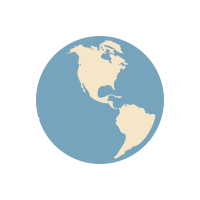
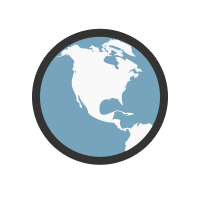
modification d'icone, couleurs, ajout partie déforestation et optimisation du css

Changed region(s): [[0.15, 0.12, 0.84, 0.84]]

diff --git a/index.html b/index.html
@@ -21,7 +21,7 @@
     <!-- Barre de navigation -->
     <nav class="container navbar navbar-expand-lg navbar-light mb-0" id="navigation">
         <div class="container-fluid">
-            <a class="navbar-brand" href="accueil.html">
+            <a class="navbar-brand" href="index.html">
                 <img src="images/forestver.png" alt=""">
             </a>
             <button class=" navbar-toggler" type="button" data-bs-toggle="collapse"
@@ -51,7 +51,7 @@
             <p class="h2 text-center p-4">Rejoignez-nous !<br>
                 Participez à la reconstruction de nos forêts
             </p>
-            <div class="presentation mb-4 rounded row align-items-center p-3">
+            <div class="presentation mb-4 rounded row align-items-center p-4">
                 <div class="col-md-6" id="container-txt-asso">
                     <p class="txt-asso">Forestver lutte depuis de nombreuses années contre la déforestation de
                         notre
@@ -65,7 +65,7 @@
             </div>
         </section>
         <!-- Chiffres clés -->
-        <section class="container px-0">
+        <section class="container border-bottom border-3 px-0 py-4">
             <div class="row gy-4 d-flex">
                 <div class="col-12 col-md-6 col-lg-4">
                     <div class="box d-flex flex-column justify-content-center align-items-center">
@@ -84,10 +84,53 @@
                 <div class="col-12 col-md-6 col-lg-4 mx-auto">
                     <div class="box d-flex flex-column justify-content-center align-items-center">
                         <img class="card_img" src="images/man.png" alt="">
-                        <p class="text-center">3000 personnes actives dans la protection et la reconstruction des forêts
+                        <p class="text-center">3000 personnes actives
                         </p>
                     </div>
                 </div>
+            </div>
+        </section>
+
+        <!-- Partie déforestation -->
+        <section class="container py-4">
+            <p class="h2 text-center py-4">Le triple impact négatif de la destruction des forêts</p>
+            <div class="row d-flex justify-content-center justify-content-lg-start py-4 gy-4">
+                <div class="col-12 col-lg-8 d-flex justify-content-center justify-content-lg-start ">
+                    <p class="txt-deforestation">
+                        <strong>La déforestation</strong> a un impact terrible sur le climat.
+                        Les écosystèmes
+                        forestiers
+                        sont aujourd'hui
+                        les écosystèmes qui ont
+                        capté le plus de carbone derrière les océans. Les détruire accélère le réchauffement climatique
+                        car cela libère les gaz
+                        captés dans leur biomasse et les sols forestiers tout en amenuisant nos capacités de
+                        séquestration de carbone. <br> Ainsi, la
+                        déforestation des forêts tropicales génère chaque année des milliards de tonnes de CO2, à
+                        hauteur d’environ 12% des
+                        émissions mondiales anthropiques annuelles de gaz à effet de serre.
+                    </p>
+                </div>
+                <div class="col-12 col-lg-4 px-0 d-flex justify-content-center">
+                    <div class="nbr-hectares w-75 d-flex flex-column justify-content-evenly">
+                        <p class="chiffre mt-0 mb-4">43M</p>
+                        <p class="txt-chiffre mt-4 mb-0">43 millions d’hectares de forêts ont disparu entre 2004 et
+                            2017 dans les 24
+                            fronts de déforestation identifiés par le
+                            WWF.
+                        </p>
+                    </div>
+                </div>
+            </div>
+            <div class="justify-content-center justify-content-lg-start row d-flex pt-4">
+                <p class="txt-deforestation">
+                    Détruire les forêts détruit la biodiversité précieuse et unique qu'elles contiennent. Les forêts
+                    sont en effet de
+                    véritables réservoirs de biodiversité. Elles sont présentes sur environ 31% des terres émergées
+                    mais abrite <strong>80% de la biodiversité</strong> terrestre et les deux tiers des espèces
+                    animales et végétales terrestres, hors
+                    océan
+                </p>
             </div>
         </section>
     </main>

diff --git a/style.css b/style.css
@@ -20,15 +20,24 @@ body {
 }
 
 .presentation {
-    background-color: #157575;
+    background-color: #0a775f;
     color: #ffffff;
 }
 
 .txt-asso {
-    padding: 1em;
     line-height: 1.8;
     width: 80%;
     font-size: 20px;
+}
+
+.txt-deforestation {
+    line-height: 2;
+    font-size: 1.1em;
+    width: 90%;
+}
+
+.txt-chiffre {
+    font-size: 0.8em;
 }
 
 .rounded-img {
@@ -42,19 +51,28 @@ body {
 
 .box {
     height: 100%;
-    background-color: #ead7c7;
+    background-color: #0a775f;
+    color: #ffffff;
     font-size: 1em;
-    font-weight: 900;
+    font-weight: 600;
     border-radius: 5px;
-    box-shadow: 3px 3px 18px -3px rgba(0, 0, 0, 0.6);
-    -webkit-box-shadow: 3px 3px 18px -3px rgba(0, 0, 0, 0.6);
-    -moz-box-shadow: 3px 3px 18px -3px rgba(0, 0, 0, 0.6);
+    box-shadow: 0px 7px 19px -12px rgb(0 0 0 / 45%);
 }
 
 .card_img {
     width: 150px;
     aspect-ratio: 1 / 1;
     object-fit: cover;
+}
+
+.nbr-hectares {
+    border-top: solid 5px black;
+    border-bottom: solid 5px black;
+}
+
+.chiffre {
+    font-weight: 900;
+    font-size: 5em;
 }
 
 @media screen and (max-width: 500px) {
@@ -83,6 +101,27 @@ body {
 
     .txt-asso {
         justify-content: center;
+        text-align: center;
+    }
+
+    .txt-deforestation {
+        font-size: 1em;
+    }
+}
+
+@media screen and (max-width: 991px) {
+    .nbr-hectares {
+        padding: 15px;
+        width: 50%;
+    }
+
+    .chiffre {
+        align-self: center;
+        font-size: 3em;
+    }
+
+    .txt-chiffre,
+    .txt-deforestation {
         text-align: center;
     }
 }
